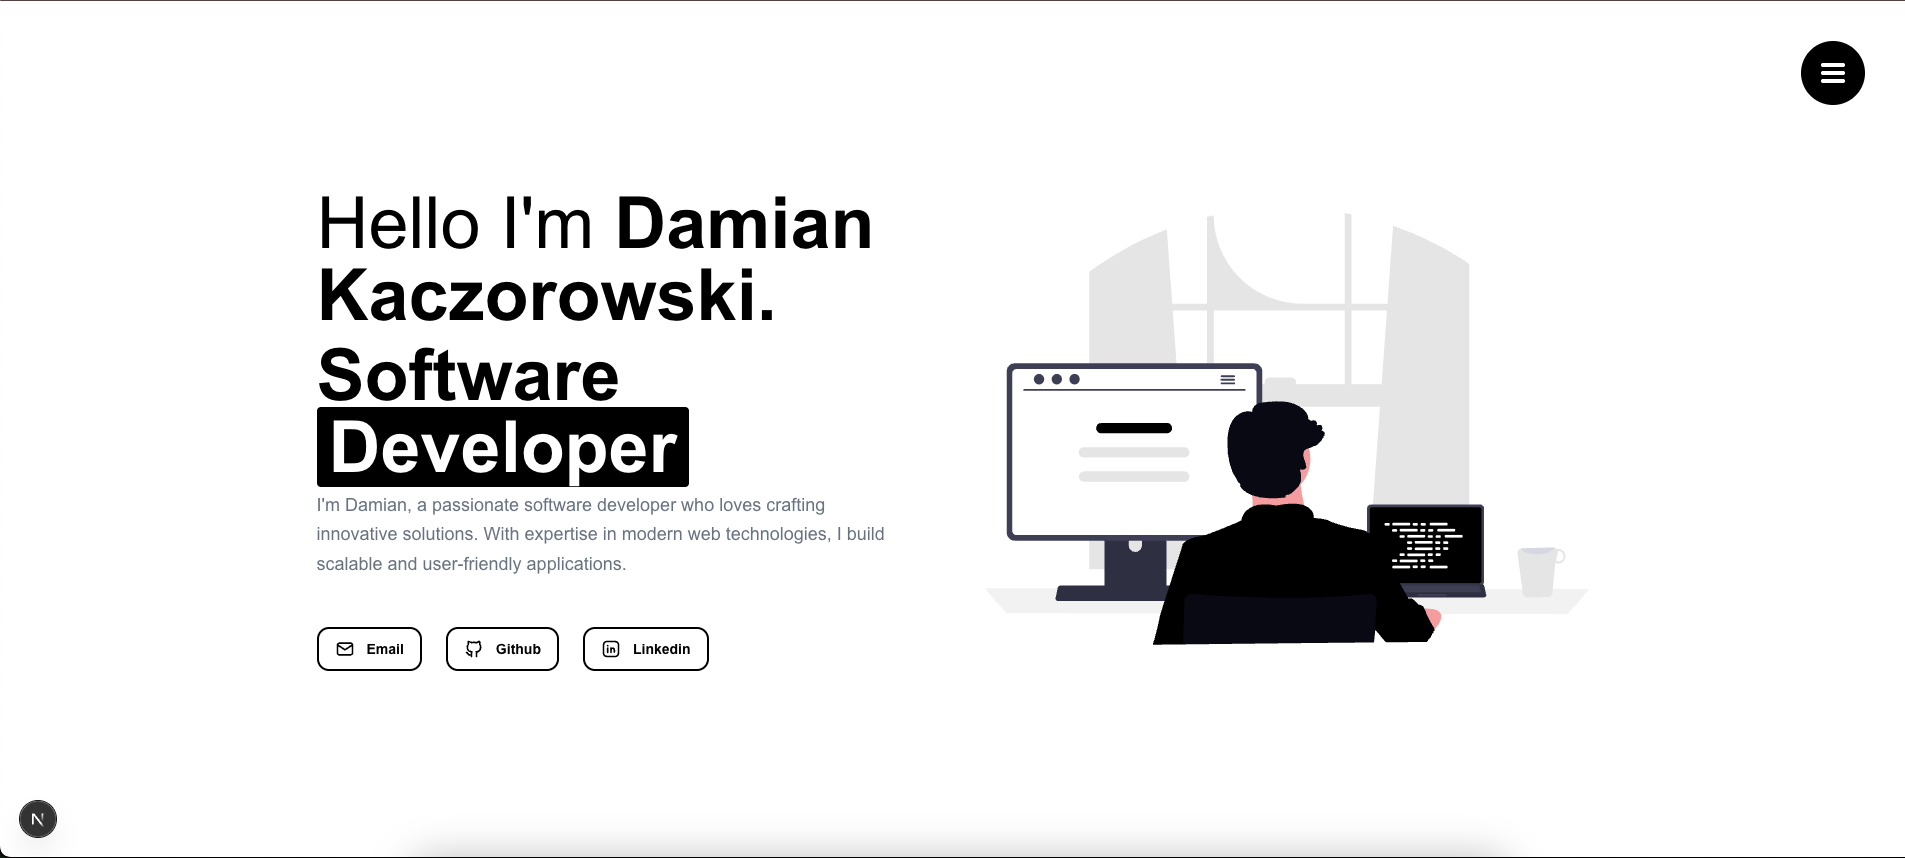
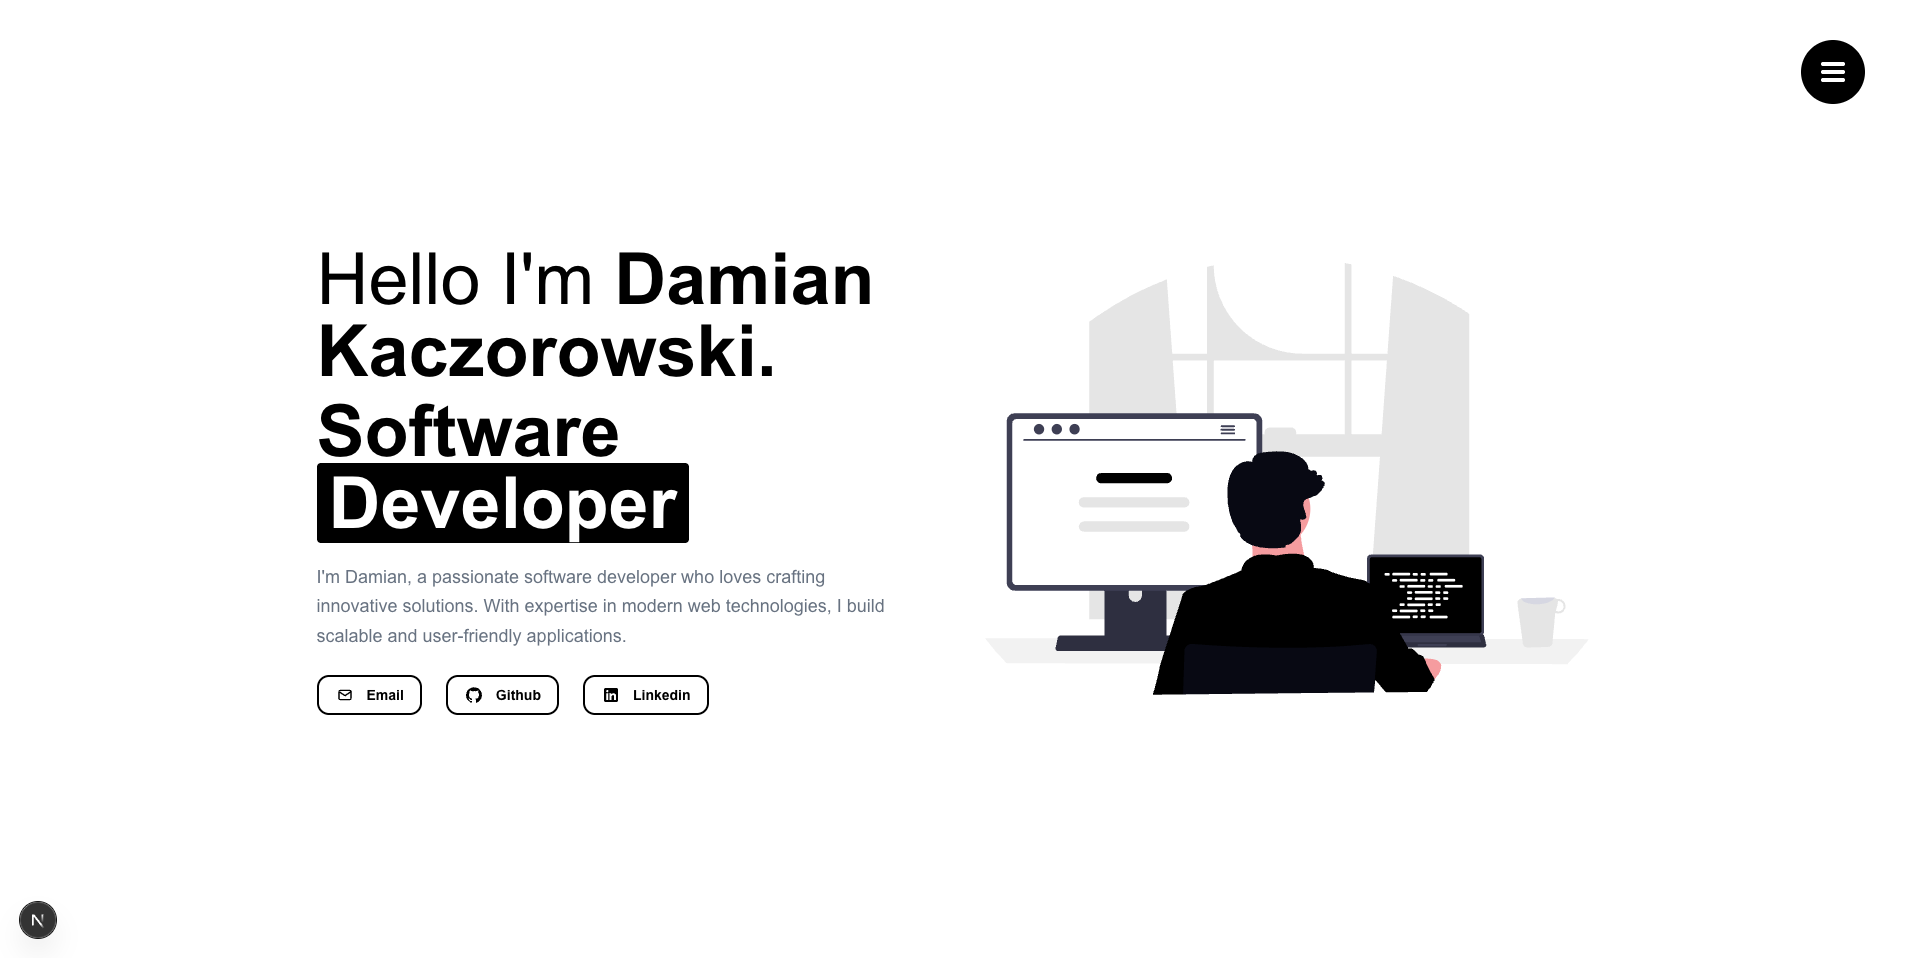
feat: improve projects section

diff --git a/src/views/home/projects/projects-desktop/projects-desktop-images/projects-desktop-images.tsx b/src/views/home/projects/projects-desktop/projects-desktop-images/projects-desktop-images.tsx
@@ -1,5 +1,4 @@
 import Image from "next/image";
-import { useRef } from "react";
 import { SiGithub } from "react-icons/si";
 import { TbLocation } from "react-icons/tb";
 import { PROJECTS_DETAILS_DATA } from "../../projects-details.data";
@@ -16,41 +15,37 @@ export const ProjectsDesktopImage = ({
     PROJECTS_DETAILS_DATA[activeIndex] ?? PROJECTS_DETAILS_DATA[0];
   const { image, github, live, title } = project;
 
-  const ref = useRef<HTMLImageElement>(null);
-
   return (
     <div className="aspect-video pr-16 sticky top-[calc(50%-150px)]">
-      <Image
-        ref={ref}
-        className="size-full object-cover rounded-2xl"
-        src={image}
-        alt=""
-      />
-      {(github || live) && (
-        <div
-          className="absolute top-1/2 left-1/2 transform -translate-x-1/2 -translate-y-1/2 flex justify-center items-center opacity-0 hover:opacity-90"
-          style={{ width: ref.current?.width, height: ref.current?.height }}
-        >
-          <div className="flex px-3 py-2 gap-3 bg-black rounded-lg">
-            {github && (
-              <ProjectsDesktopImageLink
-                href={github}
-                icon={SiGithub}
-                project={title}
-                type="github"
-              />
-            )}
-            {live && (
-              <ProjectsDesktopImageLink
-                href={live}
-                icon={TbLocation}
-                project={title}
-                type="live"
-              />
-            )}
+      <div className="relative w-full">
+        <Image
+          className="w-full h-70 object-cover rounded-2xl"
+          src={image}
+          alt=""
+        />
+        {(github || live) && (
+          <div className="absolute inset-0 flex justify-center items-center rounded-2xl opacity-0 hover:opacity-90 transition-opacity">
+            <div className="flex px-3 py-2 gap-3 bg-black rounded-lg">
+              {github && (
+                <ProjectsDesktopImageLink
+                  href={github}
+                  icon={SiGithub}
+                  project={title}
+                  type="github"
+                />
+              )}
+              {live && (
+                <ProjectsDesktopImageLink
+                  href={live}
+                  icon={TbLocation}
+                  project={title}
+                  type="live"
+                />
+              )}
+            </div>
           </div>
-        </div>
-      )}
+        )}
+      </div>
     </div>
   );
 };

diff --git a/src/views/home/projects/projects-mobile/projects-mobile-details/projects-mobile-details-item/projects-mobile-details-item-content/projects-mobile-details-item-content-image/projects-mobile-details-item-content-image.tsx b/src/views/home/projects/projects-mobile/projects-mobile-details/projects-mobile-details-item/projects-mobile-details-item-content/projects-mobile-details-item-content-image/projects-mobile-details-item-content-image.tsx
@@ -1,0 +1,44 @@
+import Image, { type StaticImageData } from "next/image";
+import { SiGithub } from "react-icons/si";
+import { TbLocation } from "react-icons/tb";
+import { ProjectsMobileDetailsItemContentImageLink } from "./projects-mobile-details-item-content-image-link";
+
+type ProjectsMobileDetailsItemContentImageProps = {
+  image: StaticImageData;
+  title: string;
+  github?: string;
+  live?: string;
+};
+
+export const ProjectsMobileDetailsItemContentImage = ({
+  image,
+  title,
+  github,
+  live,
+}: ProjectsMobileDetailsItemContentImageProps) => (
+  <div className="relative mt-4">
+    <Image className="size-full object-cover rounded-2xl" src={image} alt="" />
+    {(github || live) && (
+      <div className="absolute inset-0 flex justify-center items-center">
+        <div className="flex px-3 py-2 gap-3 bg-black rounded-lg">
+          {github && (
+            <ProjectsMobileDetailsItemContentImageLink
+              href={github}
+              icon={SiGithub}
+              project={title}
+              type="github"
+            />
+          )}
+          {live && (
+            <ProjectsMobileDetailsItemContentImageLink
+              href={live}
+              icon={TbLocation}
+              project={title}
+              type="live"
+            />
+          )}
+        </div>
+      </div>
+    )}
+  </div>
+);

diff --git a/src/views/home/projects/projects-mobile/projects-mobile-details/projects-mobile-details-item/projects-mobile-details-item-content/projects-mobile-details-item-content.tsx b/src/views/home/projects/projects-mobile/projects-mobile-details/projects-mobile-details-item/projects-mobile-details-item-content/projects-mobile-details-item-content.tsx
@@ -1,18 +1,23 @@
 import { AccordionContent } from "@/components/ui/accordion";
 import { Project } from "../../../../projects-details.data";
 import { ProjectsMobileDetailsItemContentDescription } from "./projects-mobile-details-item-content-description";
-import { ProjectsMobileDetailsItemContentImage } from "./projects-mobile-details-item-content-image";
 import { ProjectsMobileDetailsItemContentList } from "./projects-mobile-details-item-content-list";
+import { ProjectsMobileDetailsItemContentImage } from "./projects-mobile-details-item-content-image";
 
 type ProjectsMobileDetailsItemContentProps = {
   project: Project;
 };
 
 export const ProjectsMobileDetailsItemContent = ({
-  project: { technologies, description, image },
+  project: { technologies, description, image, title, github, live },
 }: ProjectsMobileDetailsItemContentProps) => (
   <AccordionContent>
-    <ProjectsMobileDetailsItemContentImage image={image} />
+    <ProjectsMobileDetailsItemContentImage
+      image={image}
+      title={title}
+      github={github}
+      live={live}
+    />
     <ProjectsMobileDetailsItemContentDescription description={description} />
     <ProjectsMobileDetailsItemContentList technologies={technologies} />
   </AccordionContent>

diff --git a/src/views/home/projects/projects-details.data.ts b/src/views/home/projects/projects-details.data.ts
@@ -23,7 +23,7 @@ import { GiBearFace } from "react-icons/gi";
 import { IconType } from "react-icons";
 import { StaticImageData } from "next/image";
 
-import image from "@/assets/images/portfolio.png";
+import portfolio from "@/assets/images/portfolio.png";
 import smartHome from "@/assets/images/smart-home.png";
 import board from "@/assets/images/board.png";
 
@@ -42,7 +42,7 @@ export type Project = {
 export const PROJECTS_DETAILS_DATA: Project[] = [
   {
     title: "Personal portfolio",
-    image: image,
+    image: portfolio,
     description:
       "A personal portfolio website built with Next.js to showcase my projects, skills, and experience. Focused on clean design, smooth navigation, and responsiveness across all devices.",
     technologies: [

diff --git a/src/views/home/projects/projects-mobile/projects-mobile-details/projects-mobile-details-item/projects-mobile-details-item-content/projects-mobile-details-item-content-image/projects-mobile-details-item-content-image-link.tsx b/src/views/home/projects/projects-mobile/projects-mobile-details/projects-mobile-details-item/projects-mobile-details-item-content/projects-mobile-details-item-content-image/projects-mobile-details-item-content-image-link.tsx
@@ -1,0 +1,26 @@
+import { IconType } from "react-icons";
+
+type ProjectsMobileDetailsItemContentImageLinkProps = {
+  href: string;
+  icon: IconType;
+  project: string;
+  type: "github" | "live";
+};
+
+export const ProjectsMobileDetailsItemContentImageLink = ({
+  href,
+  icon: Icon,
+  project,
+  type,
+}: ProjectsMobileDetailsItemContentImageLinkProps) => (
+  <a
+    target="_blank"
+    rel="noopener noreferrer"
+    href={href}
+    data-umami-event="project-event"
+    data-umami-event-project={project}
+    data-umami-event-type={type}
+  >
+    <Icon className="size-6" />
+  </a>
+);

diff --git a/src/views/home/projects/projects-mobile/projects-mobile-details/projects-mobile-details-item/projects-mobile-details-item-content/projects-mobile-details-item-content-image/index.ts b/src/views/home/projects/projects-mobile/projects-mobile-details/projects-mobile-details-item/projects-mobile-details-item-content/projects-mobile-details-item-content-image/index.ts
@@ -1,0 +1,1 @@
+export { ProjectsMobileDetailsItemContentImage } from "./projects-mobile-details-item-content-image";
